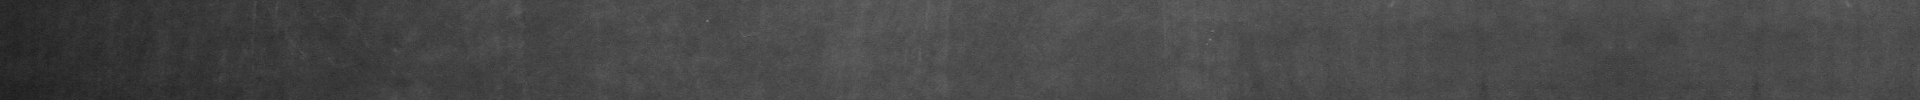
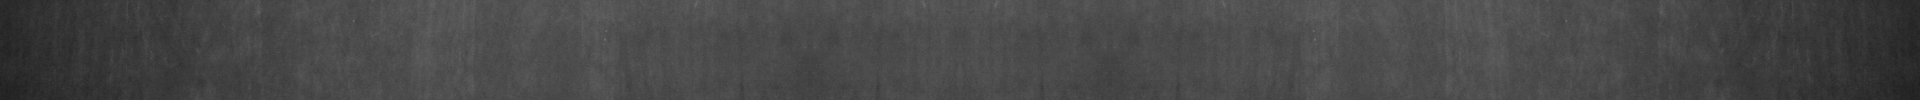
Fix header and footer repeat background.

diff --git a/page/css/rimsa.css b/page/css/rimsa.css
@@ -15,7 +15,7 @@ body > .container {
 
 .navbar-header {
     background-color: #292929;
-    background: url('../images/bg/h_darkchalkboard.jpg') no-repeat;
+    background: url('../images/bg/h_darkchalkboard.jpg') repeat;
     border-bottom: 2px solid #1573dc;
     float: none;
     text-align: center;
@@ -323,7 +323,7 @@ body > .container {
 }
 
 .navbar-offcanvas > .nav > li.active > a::before {
-    left: -2000px;
+    left: -3500px;
     margin-right: 10px;
     right: 50%;
 }
@@ -331,7 +331,7 @@ body > .container {
 .navbar-offcanvas > .nav > li.active > a::after {
     left: 50%;
     margin-left: 9px;
-    right: -2000px;
+    right: -3500px;
 }
 
 .navbar-offcanvas.in > .nav > li.active::before {
@@ -439,7 +439,7 @@ body > .container {
 .underfooter {
     text-align: center;
     min-height: 30px;
-    background: url('../images/bg/h_darkchalkboard.jpg') no-repeat;
+    background: url('../images/bg/h_darkchalkboard.jpg') repeat;
     border-top: 2px solid #353535;
     color: white;
     padding-top: 5px;
